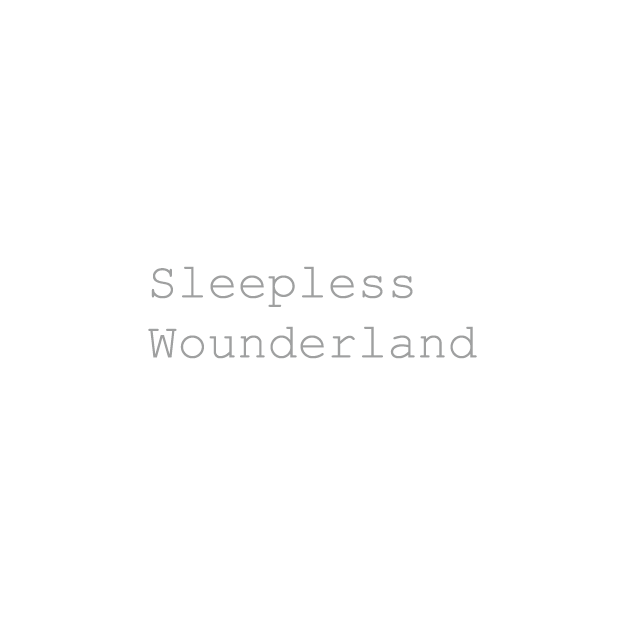
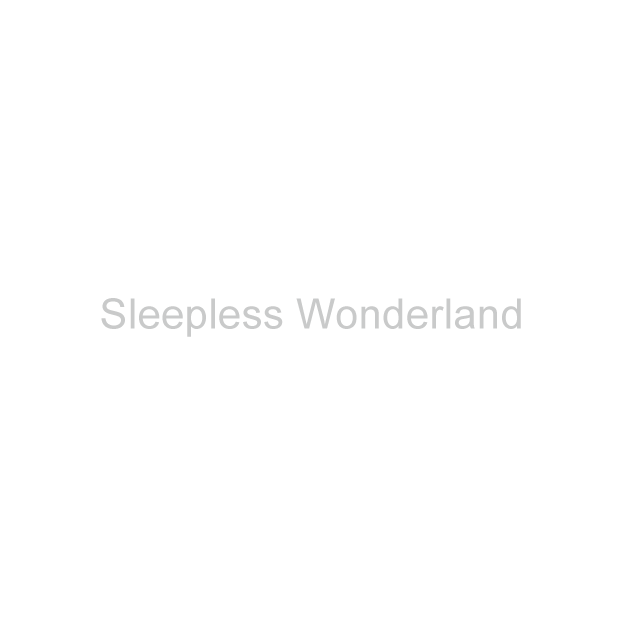
added

Changed region(s): [[0.152, 0.4256, 0.8512, 0.5776]]

diff --git a/index.html b/index.html
@@ -37,7 +37,7 @@
                     <li><a href="assignments/weeklyproject1.html">Cat Tree</a></li>
                     <li><a href="assignments/weeklyproject2.html">S E A R C H</a></li>
                     <li><a href="assignments/room.html">Pikachu</a></li>
-                    <li><a href="assignments/fictionalworld.html">Sleepless Wounderland</a></li>
+                    <li><a href="assignments/fictionalworld.html">Sleepless Wonderland</a></li>
                     <li><a href="#">TBC</a></li>
                     <li><a href="#">TBC</a></li>
                 </ul>

diff --git a/css/fictionalworld.css b/css/fictionalworld.css
@@ -65,8 +65,8 @@ audio {
 
 .test2 {
 background: url(../images/title.png);
-width: 600px;
-height: 600px;
+width: 626px;
+height: 626px;
 border-radius: 50%;
 text-align: center;
 margin: auto;
@@ -87,15 +87,6 @@ width:450px;
 height:450px;
 opacity:0.8;
 -webkit-transform:rotate(360deg);
-}
-
-.backgroundtest {
-width:1440px;
-height:900px;
-/*background-color:#660000;*/
-/*animation:myfourth 50s;*/
-/*-webkit-animation:myfourth 50s linear 5s infinite alternate;*/
-
 }
 
 
